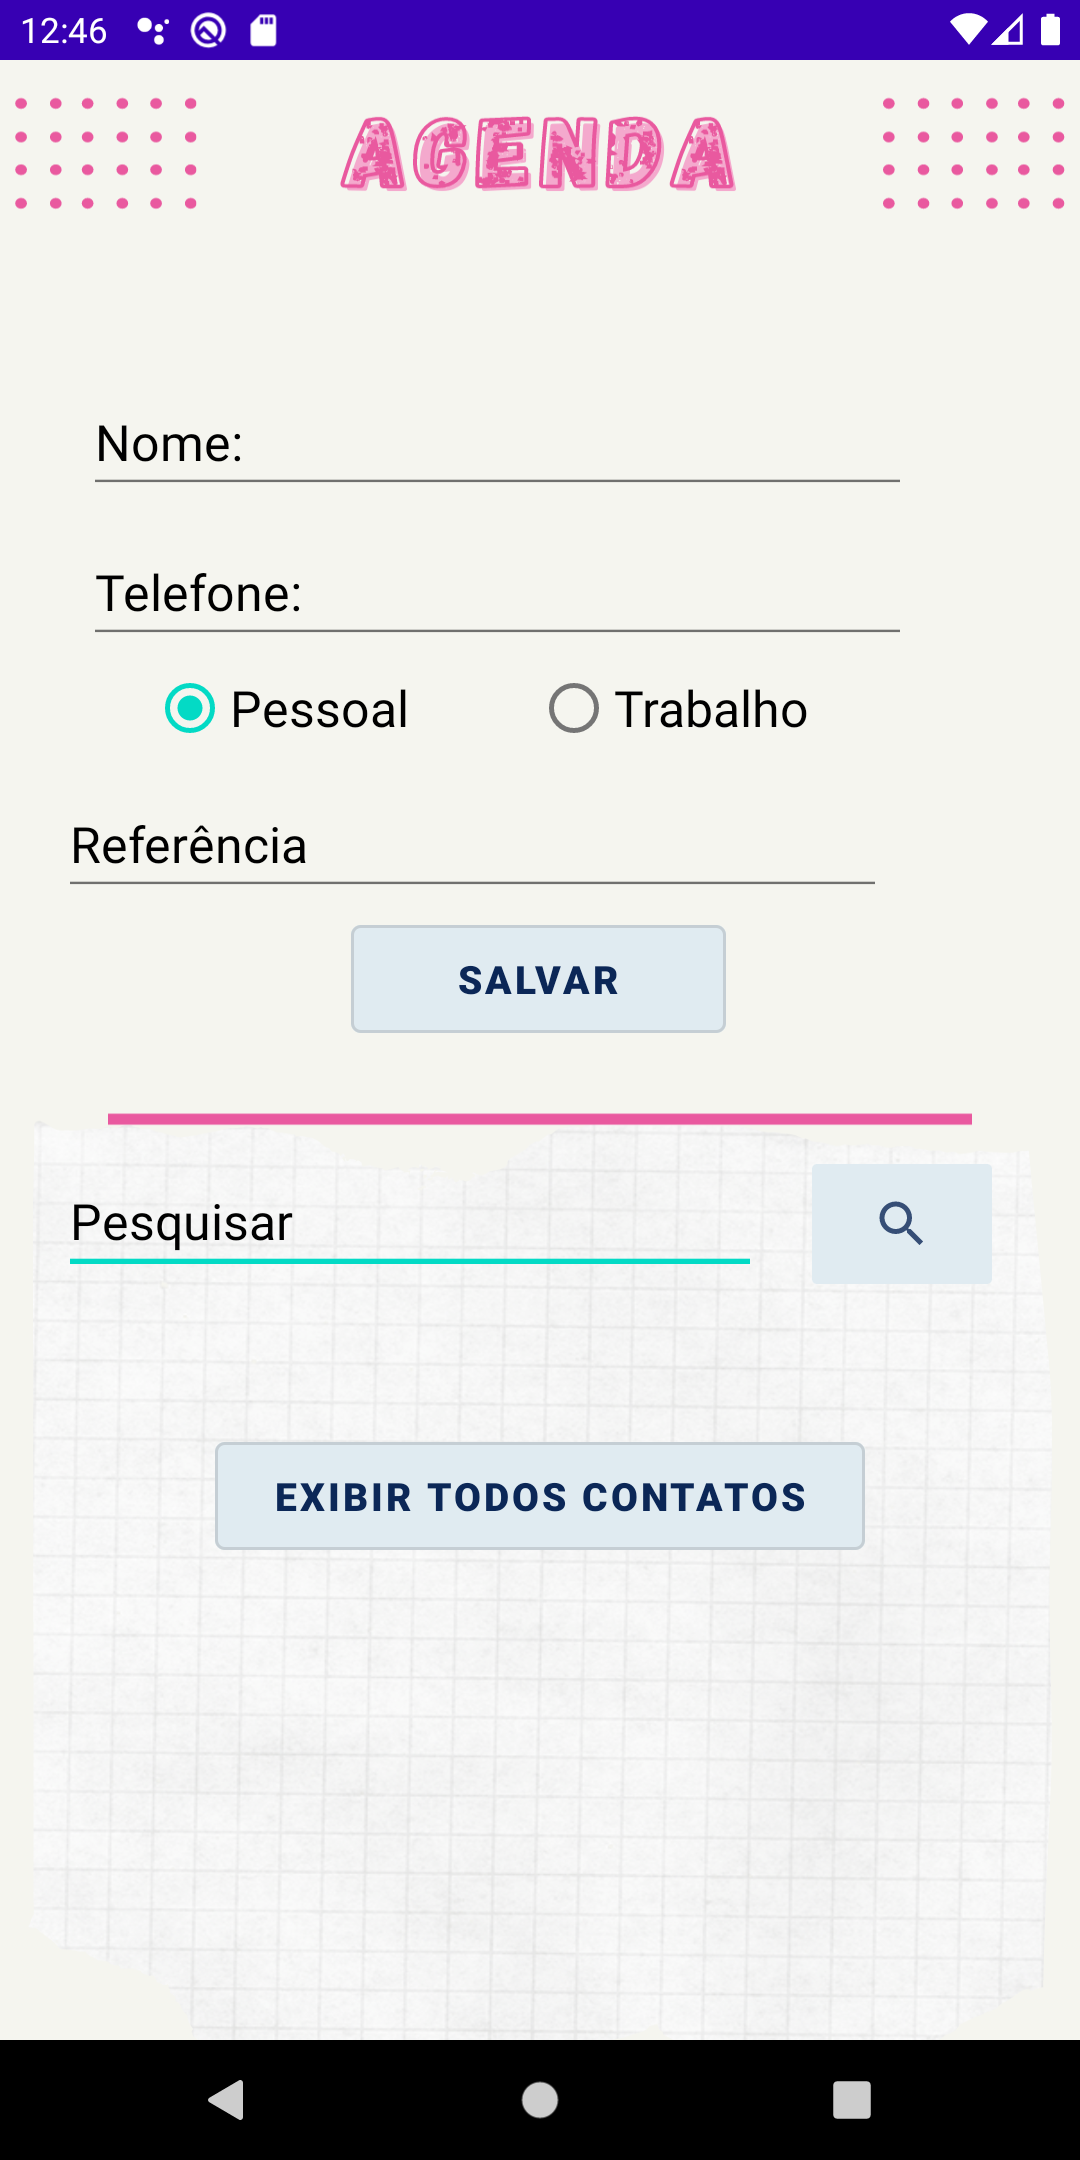
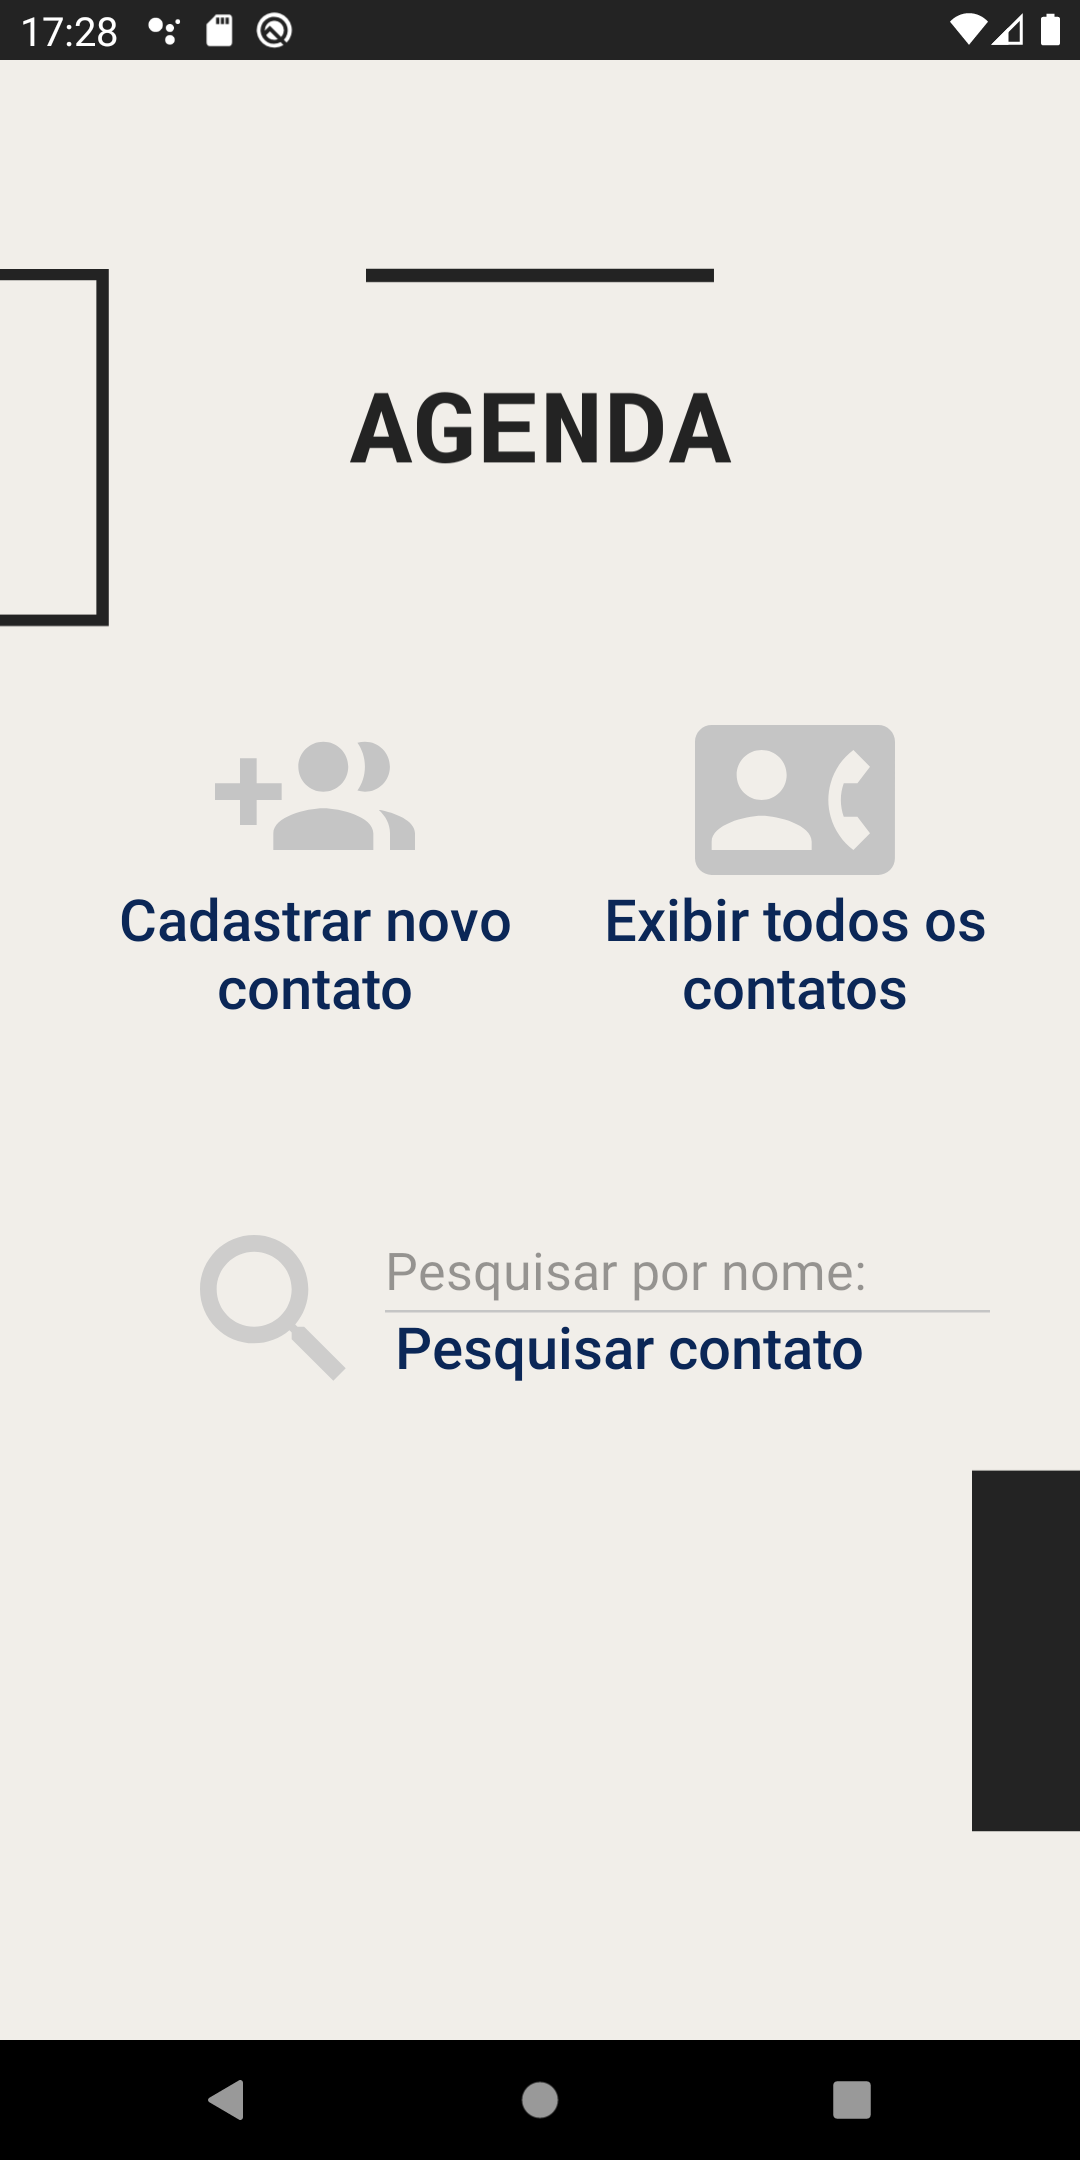
Atualiza Readme

diff --git a/MinhaAgenda2.0/README.md b/MinhaAgenda2.0/README.md
@@ -1,4 +1,4 @@
-## Minha Agenda 📞 📑
+## Minha Agenda 2.0 📞 📑
 
 #
 
@@ -6,8 +6,8 @@ _________________________________________________________________
 ### **Descrição do projeto** 🎯
 -----------------------------------------------------------------
 
-* Aplicação de agenda telefônica simples com a inserção de contatos com os campos nome, telefone, referênci ou e-mail.
-* Projeto realizado para colocar em prática alguns dos conceitos de POO.
+* Aplicação de agenda telefônica simples com a inserção de contatos com os campos nome, telefone, referência ou e-mail.
+* Projeto realizado para colocar em prática alguns dos conceitos de POO e navegação por intents.
   
 
 _________________________________________________________________
@@ -16,22 +16,18 @@ _________________________________________________________________
 
 * 🏆 O usuário pode inserir o contato escolhendo entre duas categorias: Pessoal ou Trabalho.
 * 🏆 É possível realizar a busca entre os registros utilizando o nome completo ou apenas parte do nome.
-* 🏆 Os registros são armazenados em uma lista em ordem alfabética.
-* 🏆 É retornada na tela principal, na metade inferior, o resultado da pesquisa pelo nome. Para melhorar a visualização, foi utilizado scroll view em 50% da tela.
-* 🏆 Há a função "Limpar tela" que limpa os resultados exibidos.
+* 🏆 Os registros são armazenados em uma lista que é ordenada alfabeticamente.
+* 🏆 A exibição dos resultados de pesquisa ou visualização de todos os contatos se dá em uma nova activity.
 * 🏆 Foram inseridas mensagens de erro para evitar que o usuário deixasse algum dos campos em branco.
-* 🏆 Opção de tema noturno.
 #
 
-Status do Projeto: Concluído ✔
+Status do Projeto: Em aperfeiçoamento ✔
 &nbsp;
 
 #
 Tela inicial         |  Tela após pesquisa por nome
 :-------------------------:|:-------------------------:
-<img src = "https://github.com/scmarques/ViC/blob/master/MinhaAgenda/Screen_1.png" width="280" height="600">  |  <img src = "https://github.com/scmarques/ViC/blob/master/MinhaAgenda/Screen_2.png" width="280" height="600">
+<img src = "https://github.com/scmarques/ViC/blob/master/MinhaAgenda2.0/Screen_1.png" width="280" height="600">  |  <img src = "https://github.com/scmarques/ViC/blob/master/MinhaAgenda2.0/Screen_2.png" width="280" height="600">
 
 #
-Tema noturno 
-<img src = "https://github.com/scmarques/ViC/blob/master/MinhaAgenda/Screen_3.png" width="280" height="600"> | <img src = "https://github.com/scmarques/ViC/blob/master/MinhaAgenda/Screen_4.png" width="280" height="600"> 
-:-------------------------:|:-------------------------:
+
